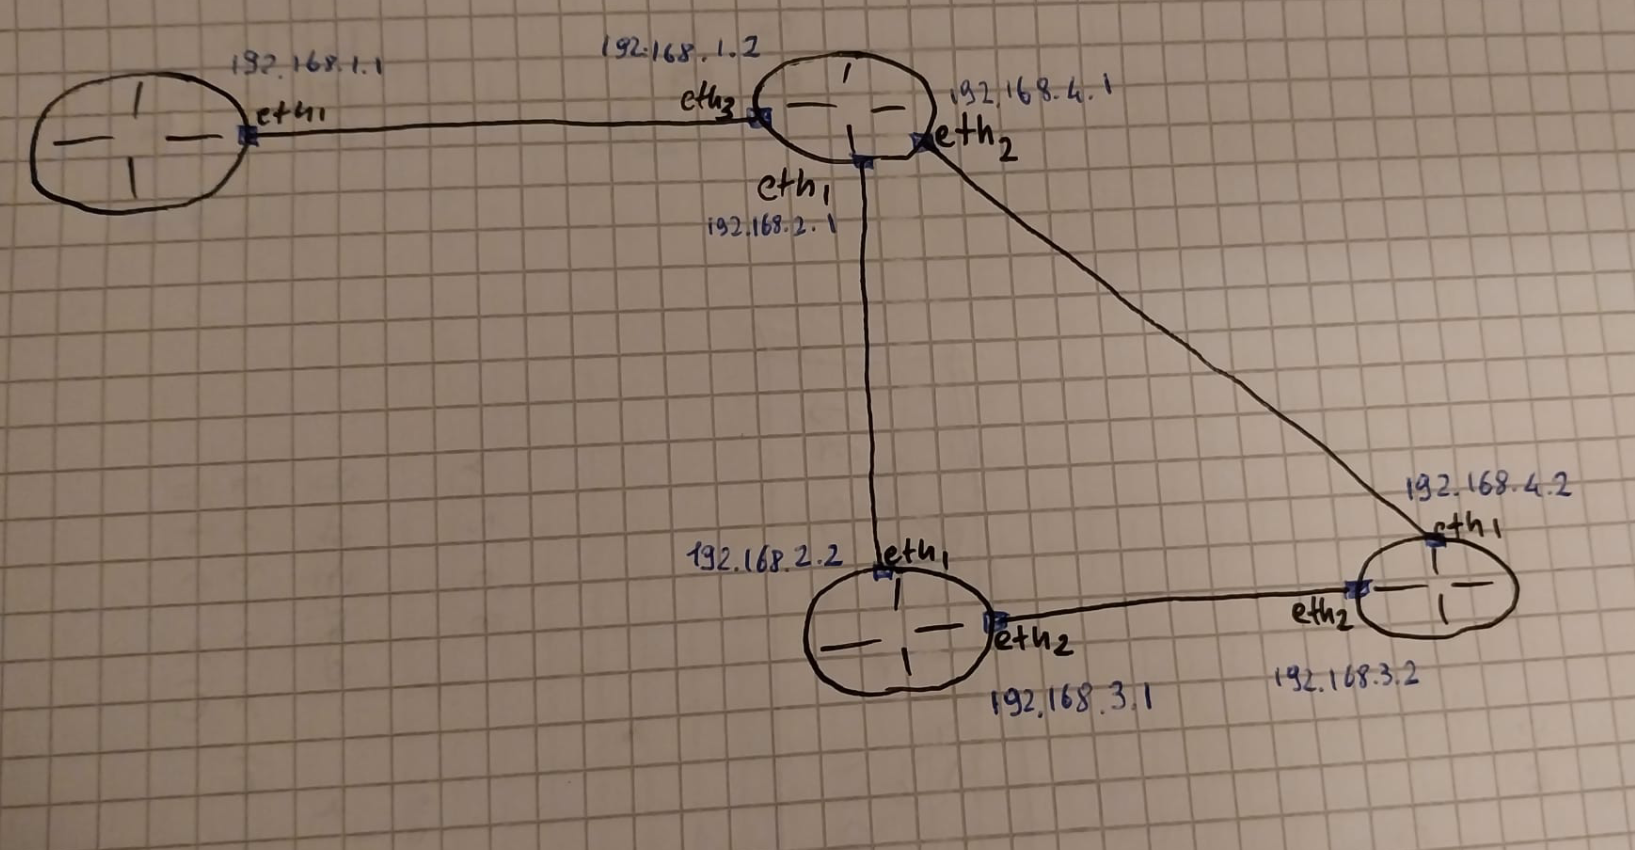
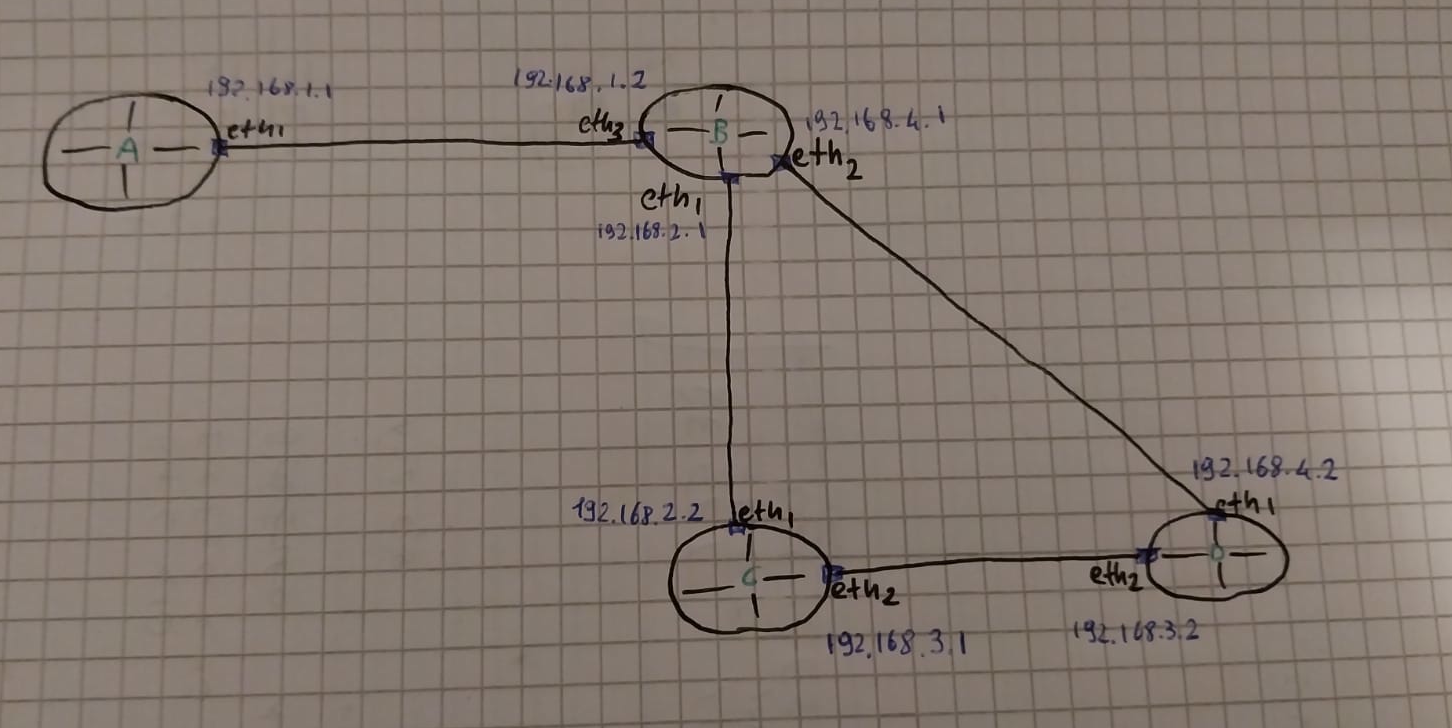
updated files

diff --git a/distance_vector_routing.py b/distance_vector_routing.py
@@ -1,15 +1,5 @@
 #!/bin/python3
 
-def updateRoutingTable(oldRib, dest, destMask, nextHop, distance):
-    oldRib.append((dest, destMask, nextHop, distance))
-    return oldRib
-
-
-def printRoutingTable(rib):
-    for elem in rib:
-        destination = str(elem[0]) + "/" + str(elem[1])
-        print(destination, "via", elem[2], "[distance:", str(elem[3])+"]")
-
-
-rib = updateRoutingTable([], "192.168.4.0", "24", "192.168.1.2", 2)
-printRoutingTable(rib)
+class router():
+    def __init__(self, name):
+        self.name = name
